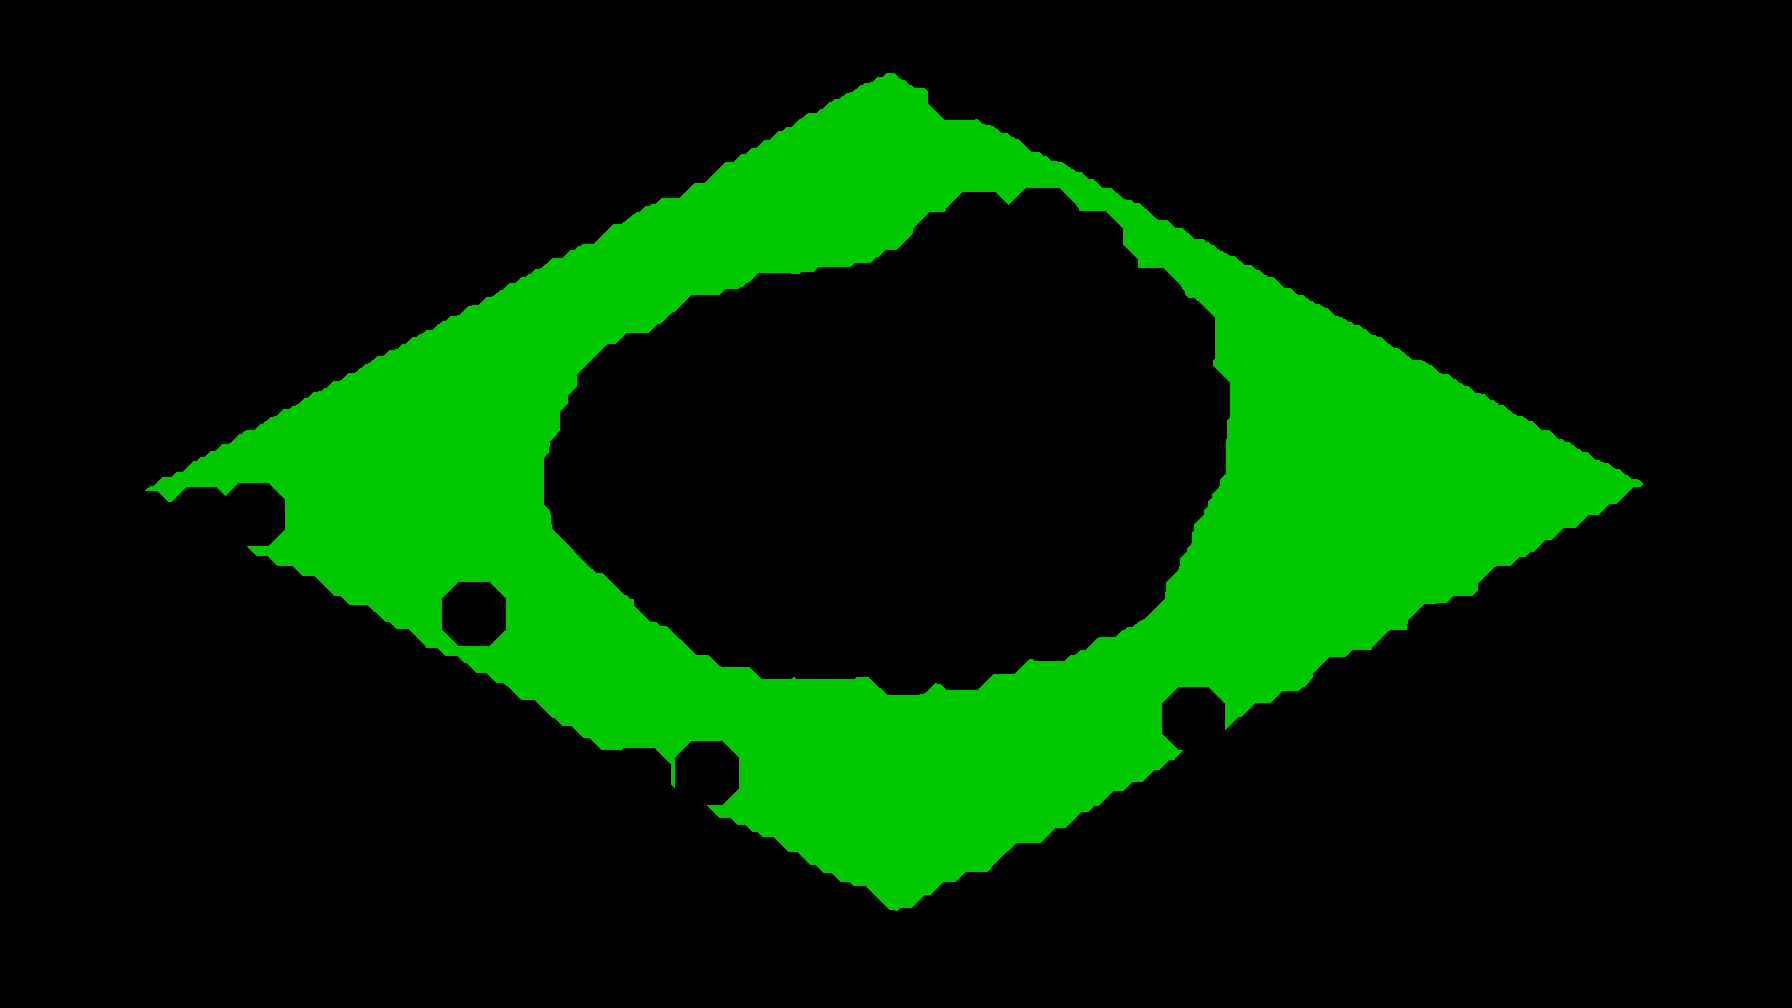
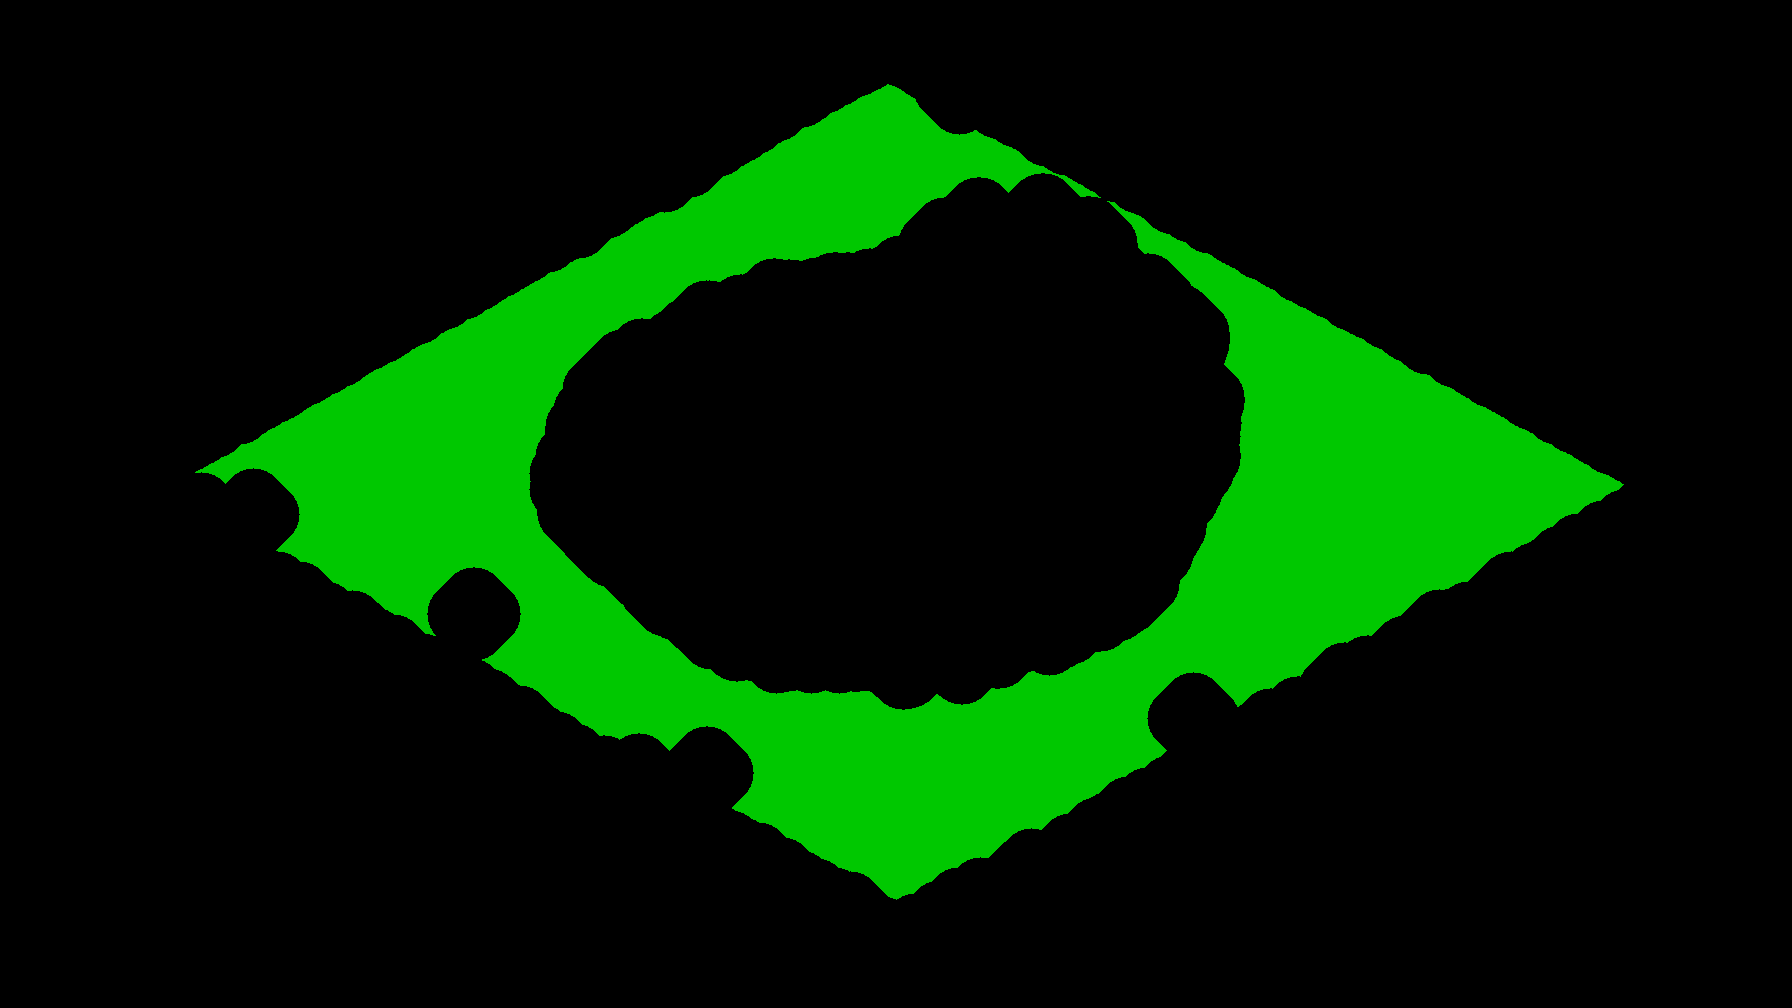
fix(web): rooms people can stand in, and a scene that does not lie
Five defects the guests hit, each measured before the change.

Walk zones. Feet were inside the mask, but a sprite grows sideways, and on a
390-wide phone the stage is only 655 px, so a 30 px margin in the original
becomes 11 on screen while the figure is 90 wide - half a villager hung over
the edge. The code now asks the mask about the shoulders too, at seating, at
every walking step and in scored deeds: 0 frames outside the zone across three
viewports. Church and forge zones were regenerated through the image gateway
and then cut by code to one connected piece; the forge had ten stray islands
people got stuck in.

The curtain silently swallowed the room. sweep() began with "if busy, do
nothing", and the swap it was called for vanished with it: open the board,
throw a topic quickly, and the location never opened at all - the viche played
out on the map and the people placed around the meeting spot read as teleports.
A second sweep now waits for the first.

Layering. A reply had z-index 500261 and the room caption 400000, and the
caption still covered it, because what gets compared is the containers, not the
elements. Bubbles on the map lived among the sprites, so anything lower on
screen climbed onto the text, and a long reply on a phone grew past the top of
the window.

Bubbles no longer appear out of nowhere: a line spoken while the camera is far
was created invisible and lived its seven seconds, so zooming in revealed words
[…]

diff --git a/apps/web/src/style.css b/apps/web/src/style.css
@@ -652,6 +652,11 @@ body {
    піксель-у-піксель — зрізаються лише боки, де підлоги однаково немає. */
 .room-stage {
   position: relative;
+  /* ★ Сцена мусить бути ВИЩИМ ярусом за підпис місця.
+     Бульбашки живуть усередині сцени, тож їхній власний z-index нічого не важить, поки сама сцена
+     нижча: репліка чесно мала 500261, а «Площа» — 400000, і все одно лягала зверху, бо порівнюються
+     не вони, а їхні контейнери. Кнопки й підсумок (900000+) лишаються над усім. */
+  z-index: 500000;
   --ar: 1.7778;
   aspect-ratio: var(--ar);
   width: 100%;
@@ -734,9 +739,12 @@ body {
   border: 6px solid transparent;
   border-top-color: var(--plaq);
 }
+/* Назва місця — ПІДПИС, а не орган керування: репліка мусить лягати поверх неї.
+   Ярус реплік починається з 500000, тож підпис живе нижче; кнопки й підсумок лишаються вище за
+   все (900000+), бо ними користуються. */
 .room-name {
   position: absolute;
-  z-index: 900000;
+  z-index: 400000;
   top: clamp(20px, 4vh, 42px);
   left: 50%;
   transform: translateX(-50%);
@@ -1183,6 +1191,12 @@ body {
   /* Бульбашка в 36vw — це 140px: довга репліка ставала вежею з двох слів у рядку. */
   .rv-bubble {
     max-width: min(300px, 74vw);
+    /* ★ І не вища за екран. Довга репліка виростала стовпом і вилазила за верх кадру — початок
+       фрази було просто не прочитати. Тепер вона обмежена висотою вікна, а зайве ховається:
+       читається завжди початок, а не хвіст. */
+    max-height: min(46vh, 340px);
+    overflow: hidden;
+    font-size: 13.5px;
   }
   /* Панель «зазирнути в голову» була вужча за екран рівно на 55px, тобто читалась стовпчиком
      біля краю. На телефоні вона займає весь кадр — бо це й є окремий екран, а не бічна шухляда. */
@@ -1282,10 +1296,15 @@ body {
    Село нічого не пояснює саме: HUD тут заборонений, а предмети мовчать, поки на них не наведеш.
    Тому новому гостю один раз показуємо, з чого почати — стрілкою на сам предмет, а не написом
    у кутку. Далі підказка не повертається: вона потрібна рівно доти, доки правило невідоме. */
+/* ★ Підказка новачкові: вістря на предметі, плашка — у кадрі.
+   Доти стрілка жила ВСЕРЕДИНІ плашки й їхала разом із нею, коли ту зсували від краю екрана: на
+   вузькому екрані вона показувала вбік від Дошки. Тепер контейнер — це точка на предметі (нульового
+   розміру), а плашка й вістря висять від неї окремо: зсув плашки більше не рухає вістря. */
 .first-hint {
   position: fixed;
   z-index: 64;
-  transform: translate(-50%, -100%);
+  width: 0;
+  height: 0;
   pointer-events: none;
   opacity: 0;
   transition: opacity 0.5s ease;
@@ -1295,25 +1314,29 @@ body {
   opacity: 1;
 }
 .first-hint-plaq {
+  position: absolute;
+  left: 0;
+  bottom: 14px;
+  transform: translateX(-50%);
   padding: 8px 16px;
-  transition: transform 0.2s ease;
+  max-width: min(74vw, 320px);
+  text-align: center;
   border: 1.5px solid var(--plaq-edge);
   border-radius: var(--plaq-r);
   background: var(--plaq);
   color: var(--plaq-ink);
   font: 600 14px/1.25 var(--serif);
-  white-space: nowrap;
   box-shadow: var(--plaq-sh);
 }
-/* стрілка — та сама хмарка, лише хвостиком униз, як у репліки над головою */
 .first-hint-arrow {
+  position: absolute;
+  left: 0;
+  bottom: 0;
+  transform: translateX(-50%);
   width: 0;
   height: 0;
-  margin: -1px auto 0;
   border: 11px solid transparent;
   border-top: 15px solid var(--plaq);
-  border-bottom: 0;
-  filter: drop-shadow(0 2px 1px rgba(108, 76, 38, 0.5));
 }
 @keyframes hint-bob {
   0%, 100% { margin-top: 0; }

diff --git a/apps/web/src/interact/LivingRoom.ts b/apps/web/src/interact/LivingRoom.ts
@@ -58,6 +58,8 @@ function inPoly(x: number, y: number, poly: Pt[]): boolean {
 /** Діамант відкритої підлоги шинку (частки): ближній/правий/дальній/лівий. */
 /** Скільки тримати перше слово після відкриття: рівно стільки, скільки розходяться хмари. */
 const OPEN_HOLD_MS = 1500;
+/** Пів ширини фігури в частках кадру: спрайт ~0.42 своєї висоти, висота ~0.2 кадру. */
+const BODY_HALF = 0.022;
 
 const DEFAULT_FLOOR: Pt[] = [
   [0.55, 0.93],
@@ -348,6 +350,17 @@ export class LivingRoom {
     this.cells = out.length ? Float32Array.from(out) : null;
   }
 
+  /**
+   * Чи стане тут ФІГУРА, а не точка.
+   *
+   * Ноги стоять у точці, але спрайт росте вбік: на телефоні кімната вужча за екран у пікселях, і
+   * пів фігури звисало з бруківки в темряву, хоч ноги формально були в зоні. Тому перевіряємо ще
+   * й плечі — ліворуч і праворуч на пів ширини спрайта в частках кадру.
+   */
+  private fits(x: number, y: number): boolean {
+    return this.inFloor(x, y) && this.inFloor(x - BODY_HALF, y) && this.inFloor(x + BODY_HALF, y);
+  }
+
   private inFloor(x: number, y: number): boolean {
     if (this.mask) {
       const gx = Math.min(this.mgw - 1, Math.max(0, (x * this.mgw) | 0));
@@ -364,6 +377,13 @@ export class LivingRoom {
     // (кузня — два відсотки кадру) спроби вигоряли, і код повертав ЦЕНТР кадру, тобто ставив
     // людину просто в стіну. Саме так вона й «телепортувалась за зону».
     if (this.cells && this.cells.length) {
+      // Кілька спроб: беремо клітину, куди влазить ціла фігура, а не лише ноги.
+      for (let k = 0; k < 24; k++) {
+        const i = (Math.random() * (this.cells.length / 2)) | 0;
+        const x = this.cells[i * 2];
+        const y = this.cells[i * 2 + 1];
+        if (this.fits(x, y)) return [x, y];
+      }
       const i = (Math.random() * (this.cells.length / 2)) | 0;
       return [this.cells[i * 2], this.cells[i * 2 + 1]];
     }
@@ -416,8 +436,8 @@ export class LivingRoom {
         } else {
           const nx = v.x + (dx / d) * step;
           const ny = v.y + (dy / d) * step;
-          if (this.inFloor(nx, ny)) {
-            // крок дозволений лише якщо лишаємось на масці (СТРОГО по зоні)
+          if (this.fits(nx, ny)) {
+            // крок дозволений лише якщо на масці лишається ВСЯ фігура, а не самі ноги
             v.x = nx;
             v.y = ny;
             if (Math.abs(dx) > 0.0008) v.face = dx < 0 ? -1 : 1;
@@ -613,7 +633,7 @@ export class LivingRoom {
     const step = (kx: number, ky: number): boolean => {
       const nx = Math.max(this.bbox.x0, Math.min(this.bbox.x1, v.x + kx));
       const ny = Math.max(this.bbox.y0, Math.min(this.bbox.y1, v.y + ky));
-      if (!this.inFloor(nx, ny)) return false;
+      if (!this.fits(nx, ny)) return false;
       v.tx = nx;
       v.ty = ny;
       v.state = "walk";

diff --git a/apps/web/src/main.ts b/apps/web/src/main.ts
@@ -631,15 +631,17 @@ async function boot(): Promise<void> {
         window.setTimeout(() => mapThink(""), 9000);
         break;
       case "event.happened": {
-        // Ухвала — не чергова тема, а СКРІПЛЕНЕ рішення: інший вигляд, і по ній не запускається
-        // новий прогін (клікабельні лише «гарячі»).
-        const decision = ev.payload.event.kind === "decision";
-        const rumour = ev.payload.event.kind === "rumour";
-        board.addTopic({
-          text: ev.payload.event.label,
-          heat: decision ? "sealed" : rumour ? "warm" : "cold",
-          author: decision ? store.state.villagers.get(ev.payload.event.involves?.[0] ?? "")?.name : undefined,
-        });
+        // ★ Дошка — це стіна ТЕМ, а не звіт про прогони.
+        //
+        // Ухвала носить у собі текст теми, з якою прийшов гість, тож на стіні опинялись «ухвалили:
+        // л ри лри» й таке інше. Наслідок ухвали й так видно в селі — доручений стоїть на своєму
+        // місці, — а сам підсумок лишається в хроніці. На Дошку йде лише чутка, і лише така, що
+        // читається як тема: кілька слів, а не набір літер.
+        if (ev.payload.event.kind !== "rumour") break;
+        const label = (ev.payload.event.label ?? "").trim();
+        const words = label.split(/\s+/).filter((w) => /[а-яіїєґА-ЯІЇЄҐa-zA-Z]/.test(w));
+        if (words.length < 3 || label.length < 12) break;
+        board.addTopic({ text: label, heat: "warm" });
         break;
       }
       case "report.compiled": {
@@ -683,7 +685,9 @@ async function boot(): Promise<void> {
     const half = plaq.offsetWidth / 2;
     const lo = half + 10 - c.x;
     const hi = window.innerWidth - half - 10 - c.x;
-    plaq.style.transform = `translateX(${Math.round(Math.min(Math.max(0, lo), Math.max(0, hi)))}px)`;
+    const shift = Math.round(Math.min(Math.max(0, lo), Math.max(0, hi)));
+    // Зсуваємо ЛИШЕ плашку; вістря лишається на предметі, бо живе окремим елементом від точки.
+    plaq.style.transform = `translateX(calc(-50% + ${shift}px))`;
   });
 
   renderer.app.ticker.add(() => {
@@ -795,7 +799,8 @@ async function boot(): Promise<void> {
       hintPoi = board;
       window.setTimeout(() => firstHint.classList.add("on"), 2600);
       // Підказка не має жити вічно: якщо гість пішов гуляти селом, вона своє сказала.
-      window.setTimeout(hideHint, 22000);
+      // Довше, ніж було: 22 секунди не вистачало навіть роздивитись село.
+      window.setTimeout(hideHint, 60000);
     }
   }
 }

diff --git a/apps/web/src/scene/Curtain.ts b/apps/web/src/scene/Curtain.ts
@@ -89,7 +89,13 @@ export class Curtain {
    * стрибок, а завіса перетворюється на прикрасу після факту.
    */
   async sweep(swap: () => void): Promise<void> {
-    if (this.busy) return;
+    // ★ Друга завіса ЧЕКАЄ на першу, а не зникає.
+    //
+    // Доти вона просто виходила («якщо зайнято — нічого не роблю»), і разом із нею тихо зникав
+    // `swap` — тобто те, заради чого її кликали. На живому шляху це виглядало так: гість відкрив
+    // Дошку (завіса), одразу кинув тему — і локація не відкривалась НІКОЛИ. Розмова лишалась на
+    // мапі, а люди, яких код перед тим поставив на місце віча, читались як «телепортувались».
+    while (this.busy) await wait(80);
     this.busy = true;
     this.root.classList.add("on");
     this.puffs.forEach((p) => (p.el.style.transition = `transform ${GATHER_MS}ms ease-in, opacity ${GATHER_MS}ms ease-in`));
